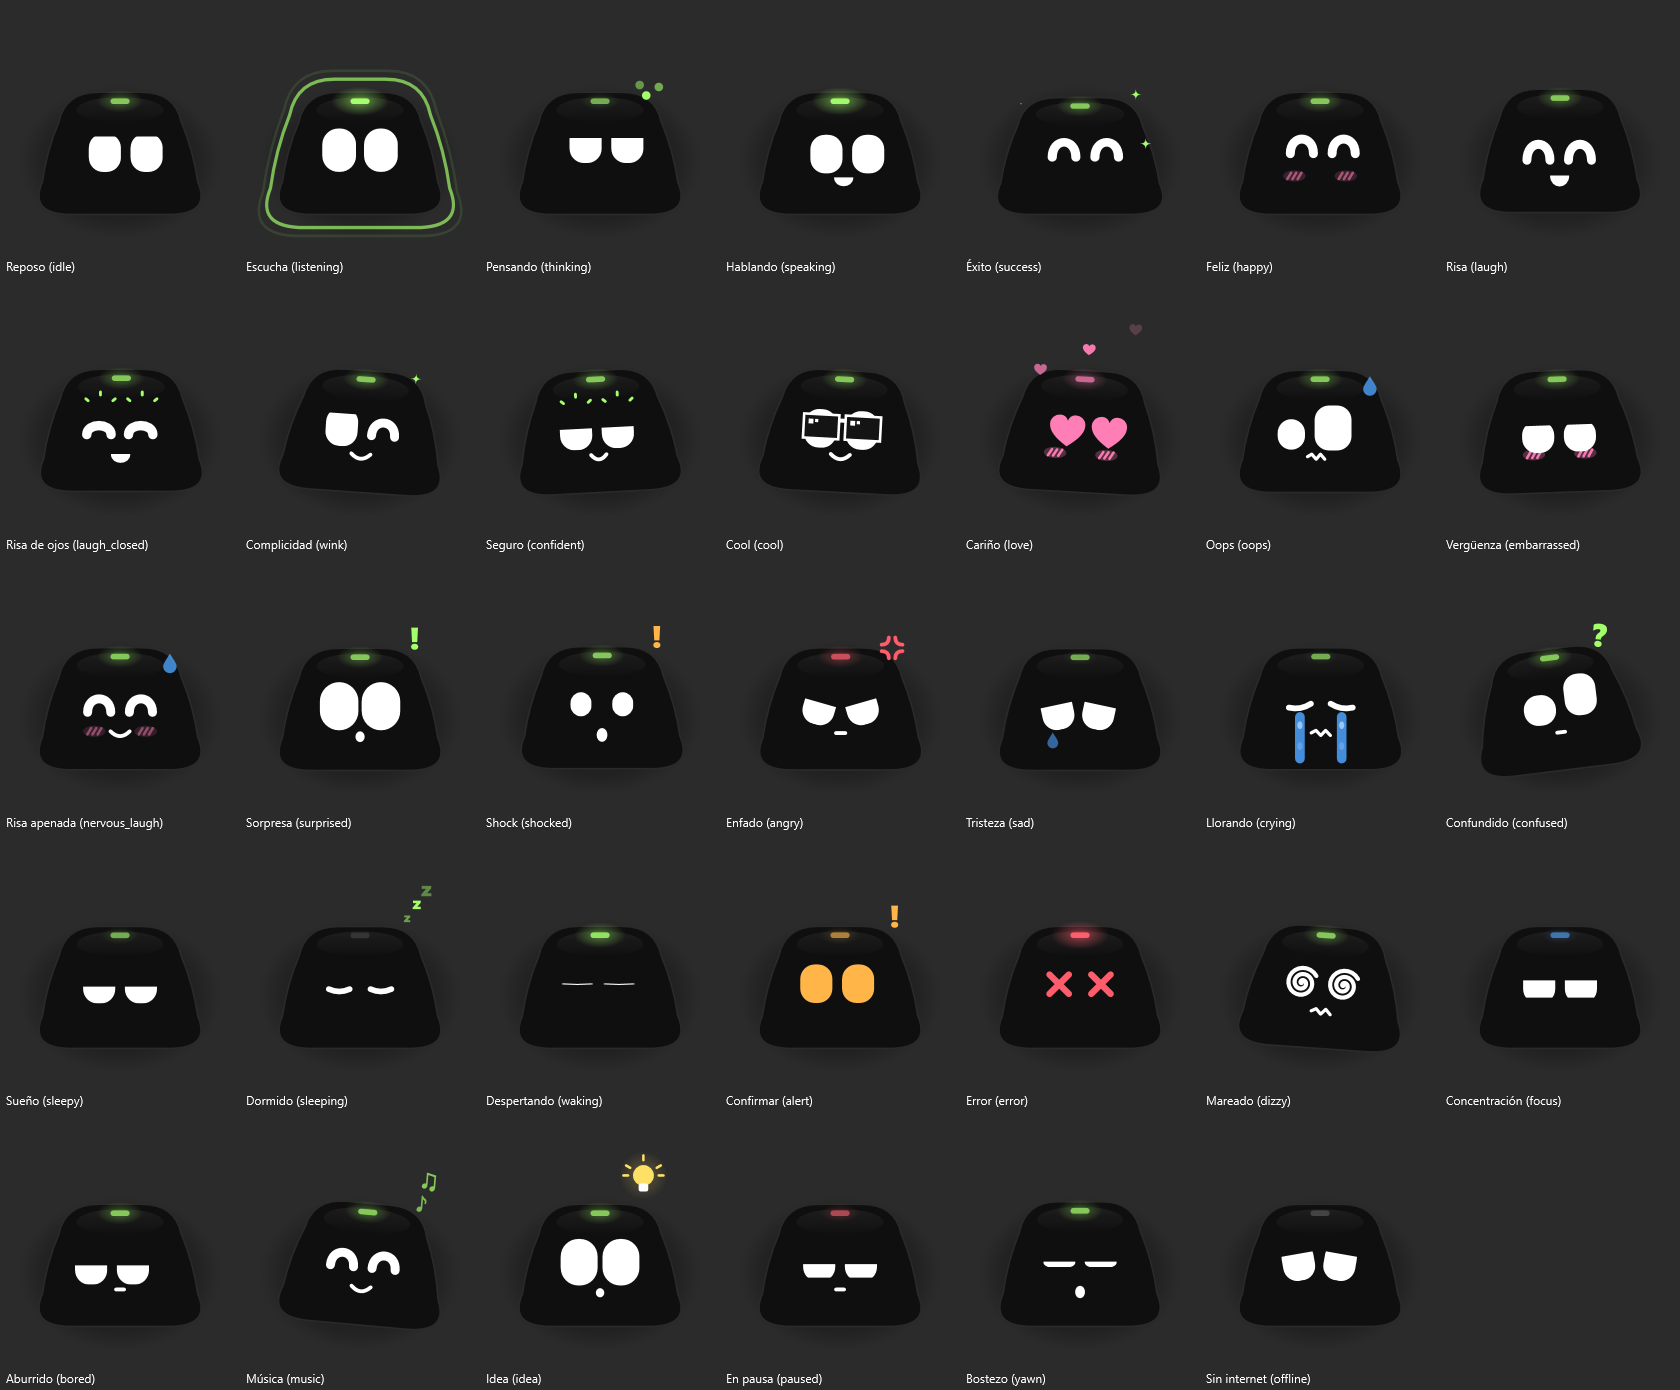
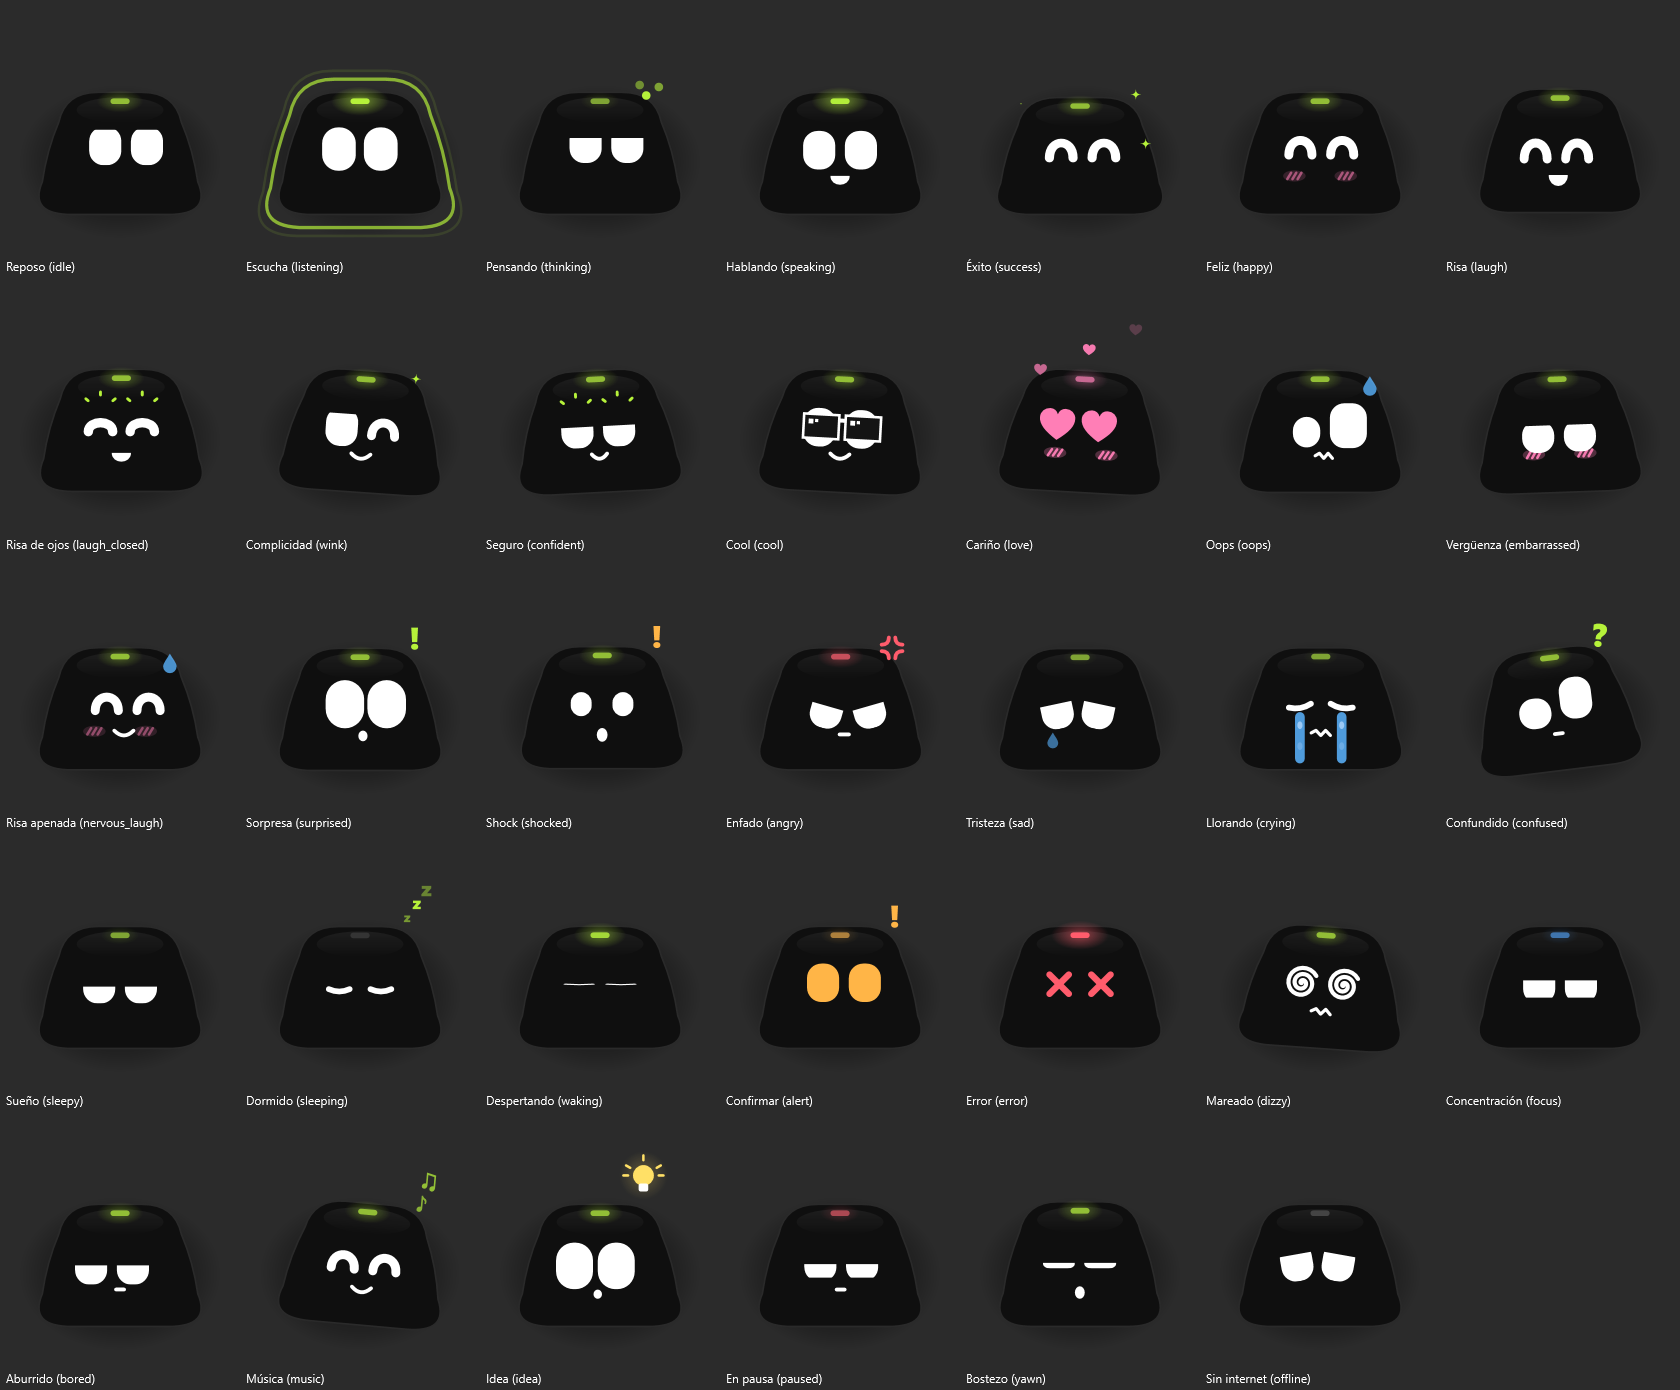
Capturas del README al día: estilo Troko, isla con música, soltar archivos y reproductor

diff --git a/src/Kroko.App/Views/SettingsWindowSnapshot.cs b/src/Kroko.App/Views/SettingsWindowSnapshot.cs
@@ -60,7 +60,11 @@ public static class SettingsWindowSnapshot
         if (!window.IsVisible) window.Show();
         window.UpdateLayout();
         System.Windows.Threading.Dispatcher.CurrentDispatcher.Invoke(() => { }, System.Windows.Threading.DispatcherPriority.Background);
-        var bmp = Capture(window, (FrameworkElement)window.Content);
+        var full = Capture(window, (FrameworkElement)window.Content);
+        // Solo la ventana (con un poco de escritorio alrededor), no el lienzo entero
+        var w = Math.Min(W, (int)Math.Ceiling(window.ActualWidth) + 16);
+        var h = Math.Min(H, (int)Math.Ceiling(window.ActualHeight) + 16);
+        var bmp = new CroppedBitmap(full, new Int32Rect(0, 0, w, h));
         Directory.CreateDirectory(outputDir);
         var path = Path.Combine(outputDir, name + ".png");
         using var fs = File.Create(path);
@@ -137,9 +141,26 @@ public static class SettingsWindowSnapshot
         return paths;
     }
 
+    /// <summary>Quita las animaciones de entrada (desvanecer, escalar) para capturar la ventana ya abierta del todo.</summary>
+    private static void FinishAnimations(DependencyObject node)
+    {
+        if (node is UIElement el)
+        {
+            el.BeginAnimation(UIElement.OpacityProperty, null);
+            if (el.RenderTransform is ScaleTransform s && !s.IsFrozen)
+            {
+                s.BeginAnimation(ScaleTransform.ScaleXProperty, null);
+                s.BeginAnimation(ScaleTransform.ScaleYProperty, null);
+            }
+        }
+        for (var i = 0; i < VisualTreeHelper.GetChildrenCount(node); i++) FinishAnimations(VisualTreeHelper.GetChild(node, i));
+        if (node is Window w) w.UpdateLayout();
+    }
+
     /// <summary>El contenido con el fondo de la ventana detrás (como se ve en pantalla).</summary>
     private static RenderTargetBitmap Capture(Window window, FrameworkElement content)
     {
+        FinishAnimations(window);
         // La ventana entera con su marco (semáforo y título) si lo tiene
         if (VisualTreeHelper.GetChildrenCount(window) > 0 && VisualTreeHelper.GetChild(window, 0) is FrameworkElement root) content = root;
         var visual = new DrawingVisual();

diff --git a/src/Kroko.App/Views/IslandSnapshot.cs b/src/Kroko.App/Views/IslandSnapshot.cs
@@ -12,7 +12,11 @@ namespace Kroko.App.Views;
 /// </summary>
 public static class IslandSnapshot
 {
-    private sealed record Sample(FaceAnimator Face, string IslandText, bool IslandCheck, bool IslandBusy, bool IslandOnline, double Width);
+    private sealed record Sample(FaceAnimator Face, string IslandText, bool IslandCheck, bool IslandBusy, bool IslandOnline, double Width,
+        bool IslandMusic = false, bool MusicPlaying = false, bool IslandHover = false)
+    {
+        public ImageSource? MusicCover => null;
+    }
 
     public static string Render(ExpressionLibrary library, string outputDir)
     {
@@ -31,6 +35,7 @@ public static class IslandSnapshot
             new(Face("thinking"), "Pensando…", false, true, true, 250),
             new(Face("success"), "Anotado", true, true, true, 250),
             new(Face("focus"), "24:12 · Enfoque", false, true, true, 250),
+            new(Face("music"), "Lofi Beats — Chillhop", false, false, true, 280, IslandMusic: true, MusicPlaying: true, IslandHover: true),
             new(Face("sleeping"), "Durmiendo", false, false, true, 150),
             new(Face("offline"), "Sin conexión", false, true, false, 250),
         ];

diff --git a/CLAUDE.md b/CLAUDE.md
@@ -549,7 +549,7 @@ Telegram, autenticación por token, despliegue del Brain en servidor (Docker), l
 - [x] Extra — Configuración estilo macOS (17/11/2026, pedido por Pol: «que tenga lógica de uso»): **una sola ventana** (`Views/SettingsWindow`) reemplaza a «Ajustes avanzados» y reúne lo que antes estaba en cuatro lugares (Ajustes del panel, Ajustes avanzados, asistente y Conectores). Sin marco de Windows: semáforo rojo/amarillo/verde, esquinas de 12 px, barra lateral con buscador, tu perfil arriba e iconos en cuadritos de color, en orden de uso: **Kroko** (General, Voz y conversación, Personalidad, Avisos) · **Tú** (Tu perfil, Cuentas y apps) · **Inteligencia** (Claves de IA —una fila por trabajo, con «Quitar»—, Gasto de IA, Conexión al cerebro) · **Seguridad** (Permisos, Privacidad y datos). Tarjetas con filas y notas al pie; **todo se guarda solo** (`SettingsViewModel.SaveNow`, 0,7 s después del último cambio; lo mal escrito no se guarda y se avisa; lo que necesita reiniciar muestra «Reiniciar Kroko ahora»). Perfil, claves y cuentas usan `OnboardingViewModel` (`SaveProfileNow`, `SaveAiNow`, `SaveMailNow`, `SaveTelegramNow`, `RemoveKey`). «Abre tu configuración» (`abrir_ventana configuracion` + `seccion`), el clic derecho y la bandeja abren esta ventana; los nombres viejos de sección siguen sirviendo (`FindSection`). El panel «Kroko» conserva sus ajustes rápidos con «Toda la configuración». Captura: `docs/configuracion.png`. Pruebas: 222 (cerebro) + 110 (App).
 
 - [x] Extra — Isla inteligente, contraste y limpieza (17/11/2026, **v1.0.7** con todo lo del 17/11): la **isla se esconde sola** (`Kroko:IslandAutoHide`, por defecto sí; Configuración → General) y **sale** al decir «Oye Kroko», mientras escucha, piensa o habla, con un check o la cuenta atrás, con su panel abierto o **al pasar el cursor por el borde de arriba** (zona del ancho de la isla, `CursorAtTopCenter`); se va 2,5 s después de terminar (`BubbleWindow.UpdateIslandVisibility`, `BubbleViewModel.IslandWanted`, `PanelViewModel.IsActiveForIsland`). **Contraste:** barras de título oscuras en todas las ventanas (`NativeMethods.UseDarkTitleBar`, DWM), menús de clic derecho y tooltips oscuros, y letras claras por defecto en los controles de Windows que traían texto negro (CheckBox, ListBox, TabControl, Expander…); las capturas de `--snapshot` ahora abren la ventana real fuera de la pantalla para ver lo mismo que el dueño. **Sin duplicados:** el panel «Kroko» ya no tiene pestaña Ajustes (todo está en Configuración, con un botón abajo en su barra lateral). Pruebas: 222 (cerebro) + 110 (App).
-- Nota (17/11/2026): en `docs/` solo quedan las capturas que usa el README (`isla.png`, `panel-kroko.png`, `configuracion.png`, `expresiones.png`); las demás que se mencionan arriba se regeneran con `Kroko.App.exe --snapshot <carpeta>`.
+- Nota (17/11/2026): en `docs/` solo quedan las capturas que usa el README (`isla.png`, `panel-kroko.png`, `configuracion.png`, `expresiones.png`, `soltar-archivos.png`, `musica.png`; regeneradas el 18/11/2026 con el estilo Troko); las demás que se mencionan arriba se regeneran con `Kroko.App.exe --snapshot <carpeta>`.
 
 - [x] Arreglo — Telegram «no me pude conectar» y todo estilo Mac (17/11/2026, **v1.0.8**): con una clave de Gemini inválida, bloqueada o con la API desactivada (400 API_KEY_INVALID, 401, 403) el cerebro se detenía en la primera clave sin probar las otras y respondía un mensaje genérico. Ahora esas claves se apartan 12 h y se prueba la siguiente (`GeminiKeyRing.IsBadKey`); si el modelo no está disponible (404) se usan `Llm:Gemini:FallbackModels` (`gemini-3.5-flash`, `gemini-flash-latest`); un fallo de red se reintenta; y si nada funciona Kroko dice **el motivo real** (`LlmProviderException.OwnerMessage`: clave no aceptada, modelo no disponible, Gemini saturado, sin conexión o tiempo de espera). **«Guardar y probar»** de Claves de IA hace una pregunta real con cada clave y dice cuál falla y por qué (`SetupApi.KeyProblem`; antes solo miraba si Google conocía la clave y una sin saldo pasaba la prueba). **Estilo Mac en todas las ventanas** (`Kroko.MacWindow` en el tema: sin marco de Windows, semáforo con `SystemCommands`, título centrado, esquinas de 12 px): panel Kroko, Mi día, Conectores, Lo que sabe de ti, Registro, Galería y asistente; **letras blancas** (`Kroko.Text` #FFFFFF, secundario #BDBDC2) sobre fondo negro (#121212). Pruebas: 225 (cerebro) + 110 (App).
 

diff --git a/README.md b/README.md
@@ -9,6 +9,10 @@ y controla tu PC, tus tareas, tu correo, tu calendario y tus apps. El cerebro vi
 |---|---|
 | ![Panel Kroko](docs/panel-kroko.png) | ![Configuración](docs/configuracion.png) |
 
+| Suelta archivos sobre Kroko | Música en la isla |
+|---|---|
+| ![Soltar archivos](docs/soltar-archivos.png) | ![Reproductor](docs/musica.png) |
+
 ![Sus caras](docs/expresiones.png)
 
 ## Qué hace
